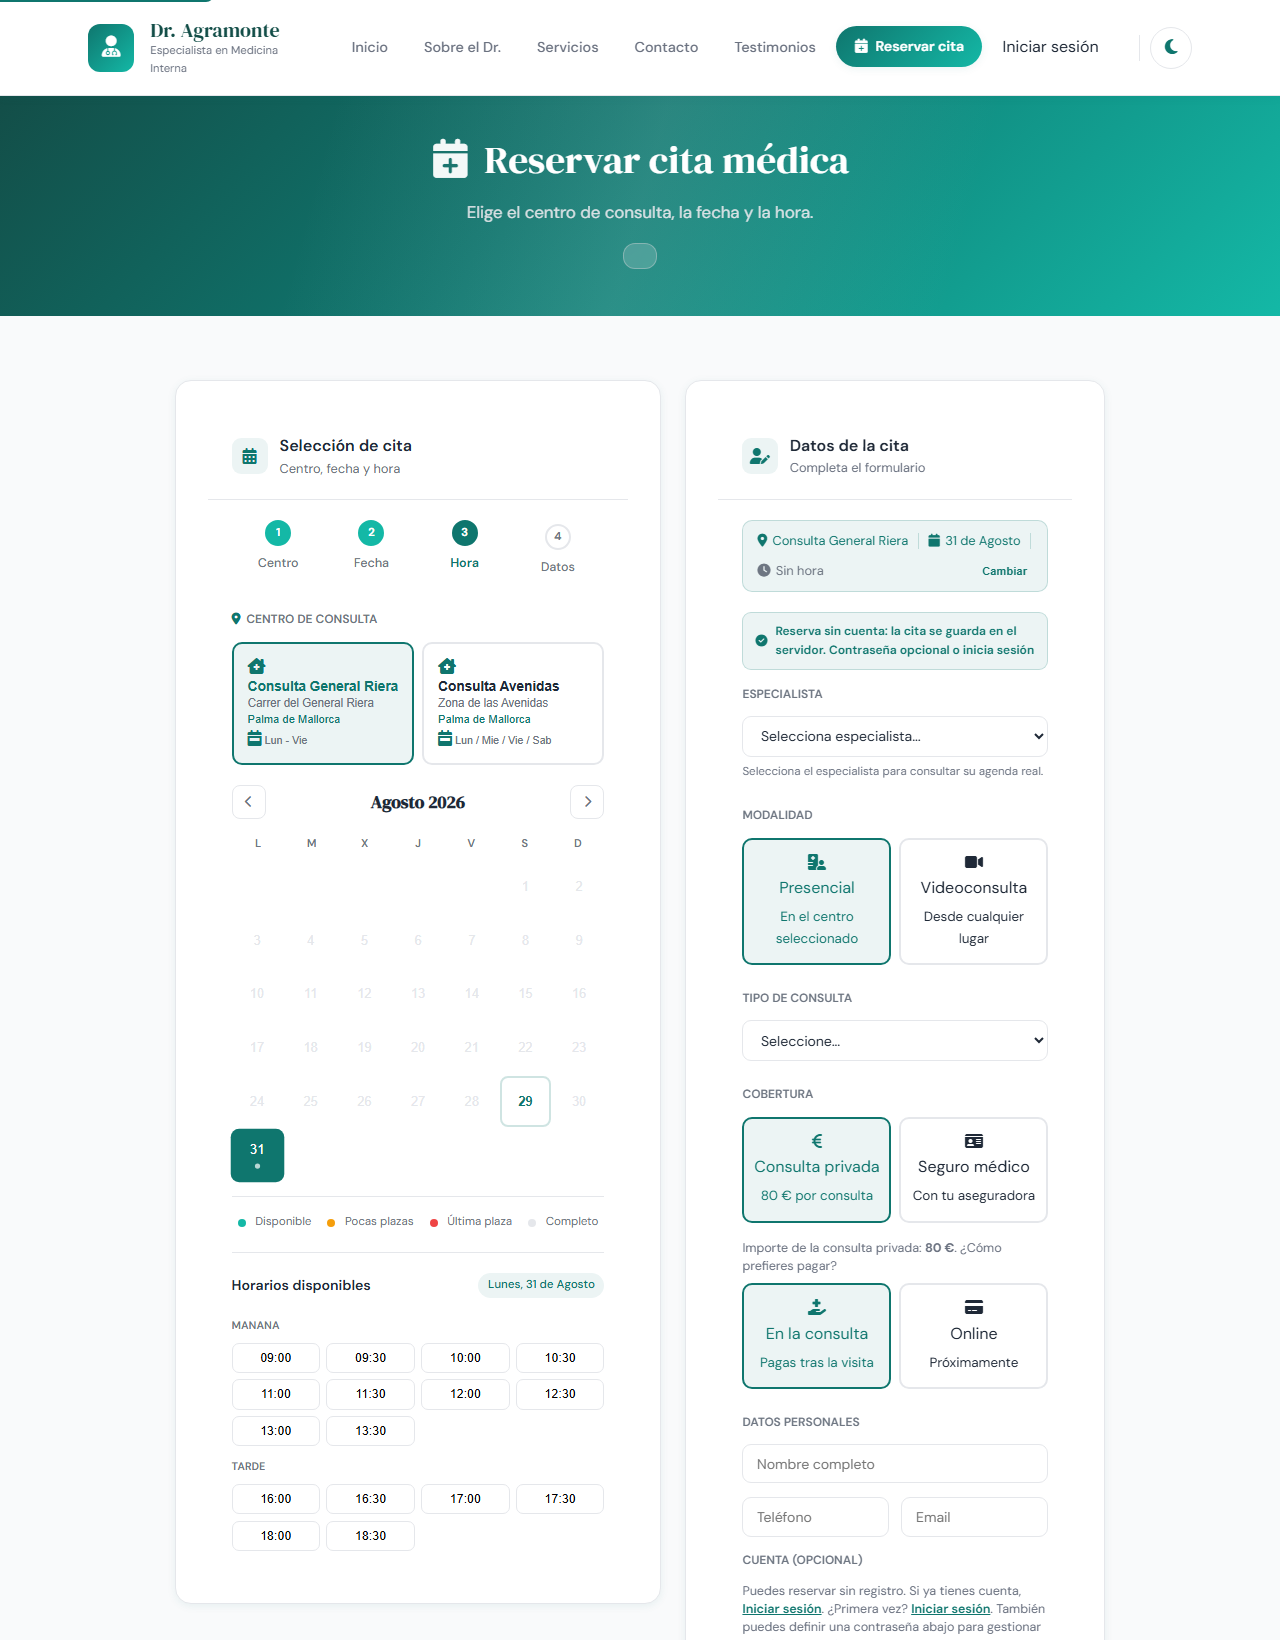
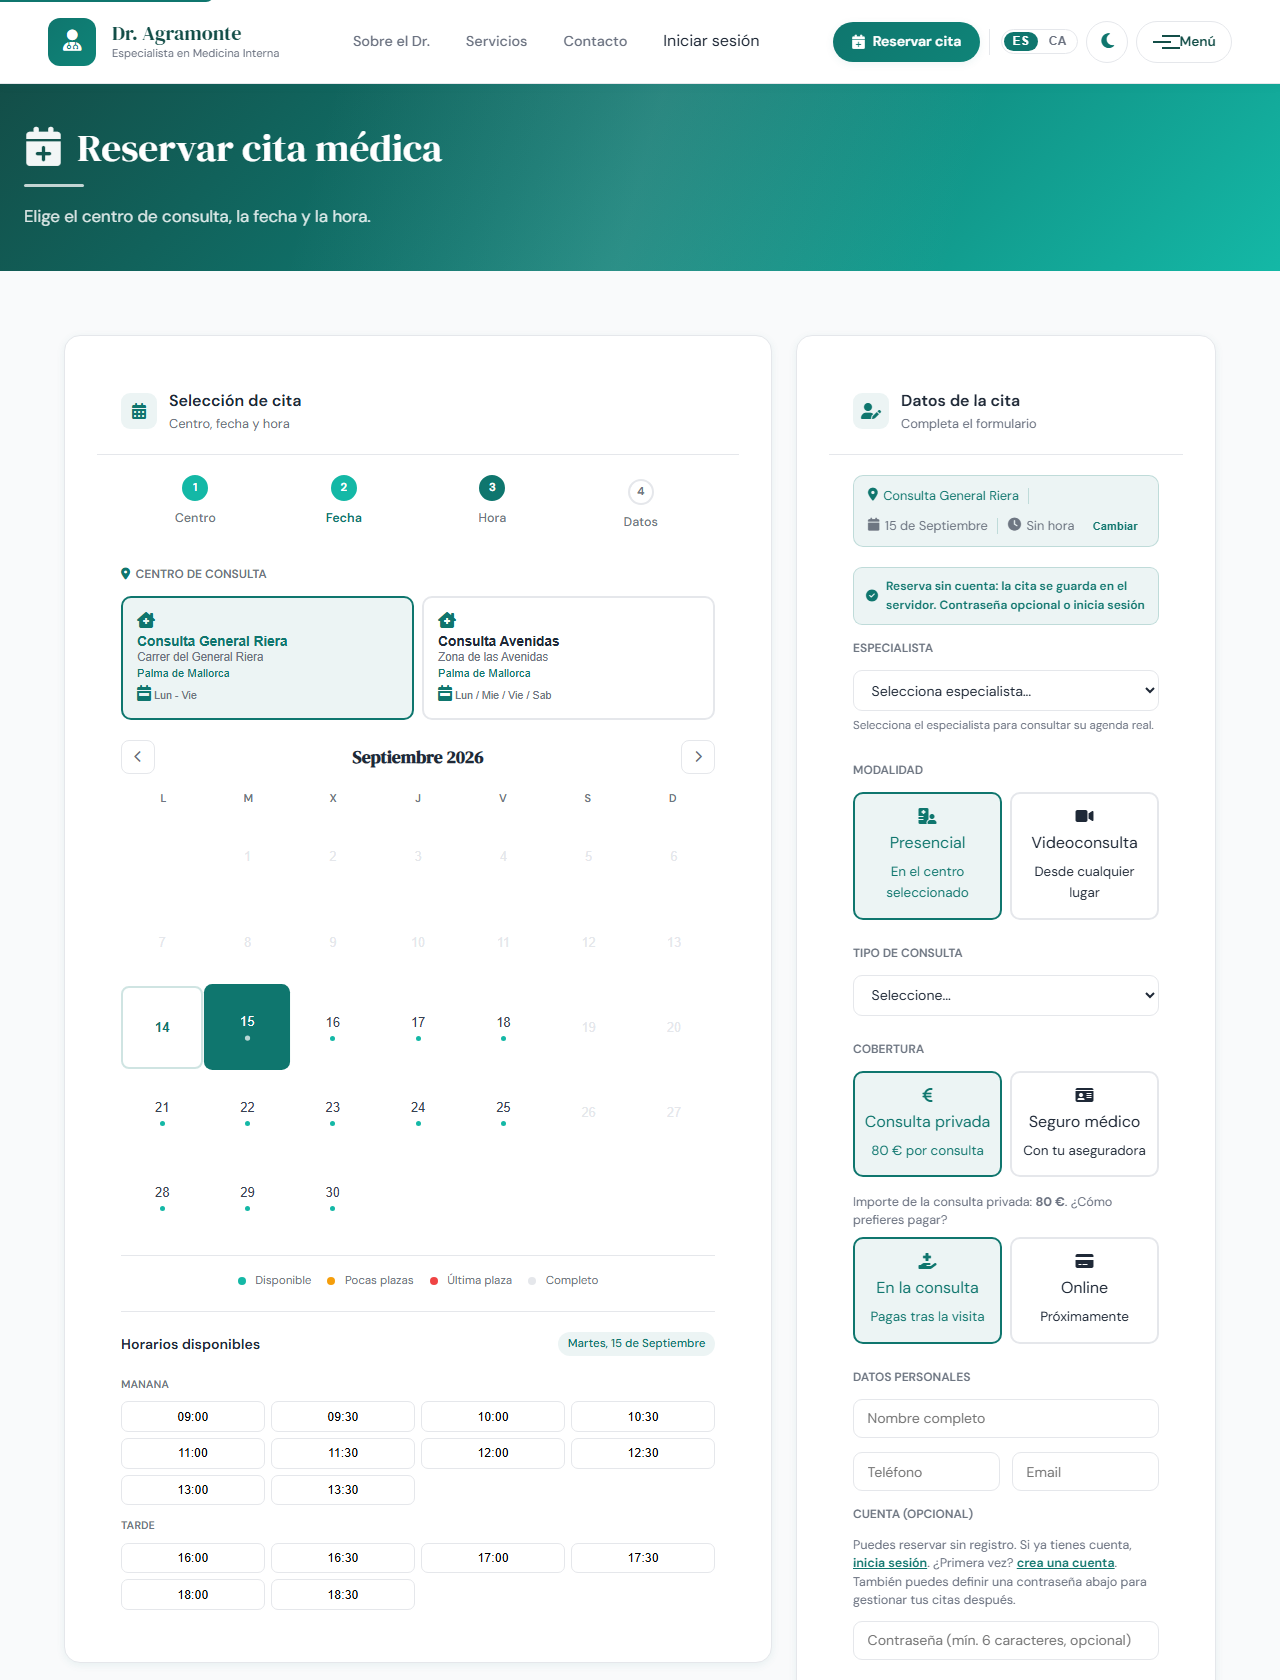
docs(readme): rehacer las capturas, que eran del diseno anterior
La portada seguia mostrando la barra de enlaces y la ilustracion, de antes
de la portada asimetrica con la foto real y del panel de menu. El texto
alternativo de la reserva hablaba de un calendario de agosto.

diff --git a/README.md b/README.md
@@ -11,7 +11,7 @@ máquina (ver [docs/DESPLIEGUE-VPS.md](docs/DESPLIEGUE-VPS.md)).
 
 [![CI](https://github.com/maragramonte/dr-agramonte/actions/workflows/ci.yml/badge.svg)](https://github.com/maragramonte/dr-agramonte/actions/workflows/ci.yml)
 
-![Portada de la web: reserva de cita con el Dr. Agramonte, especialista en Medicina Interna en Palma de Mallorca](frontend/pictures/Imagenwebapp.png)
+![Portada de la web: fotografía del Dr. Agramonte a sangre junto al titular «Atención Médica Integral en Medicina Interna», con sus años de experiencia, la ubicación en Palma de Mallorca y el acceso directo a solicitar cita](frontend/pictures/Imagenwebapp.png)
 
 ---
 
@@ -34,7 +34,7 @@ Este proyecto digitaliza esa parte concreta, sin tocar lo que sí requiere trato
 - **Bilingüe** castellano/catalán, con la preferencia guardada en el navegador.
 - **PWA instalable**, accesible (WCAG 2.1 AA), con modo oscuro y modo sin conexión.
 
-![Pantalla de reserva: centro de consulta, calendario de agosto con el día seleccionado y los huecos libres de mañana y tarde](frontend/pictures/reserva-calendario.png)
+![Pantalla de reserva: los dos centros de consulta, el calendario del mes con el día elegido, los huecos libres de mañana y tarde, y a la derecha el formulario con modalidad, cobertura y forma de pago](frontend/pictures/reserva-calendario.png)
 
 *La reserva, paso a paso: centro, fecha y hora. Los huecos salen de la agenda real del médico,
 calculados en el servidor para el centro y el día elegidos.*
